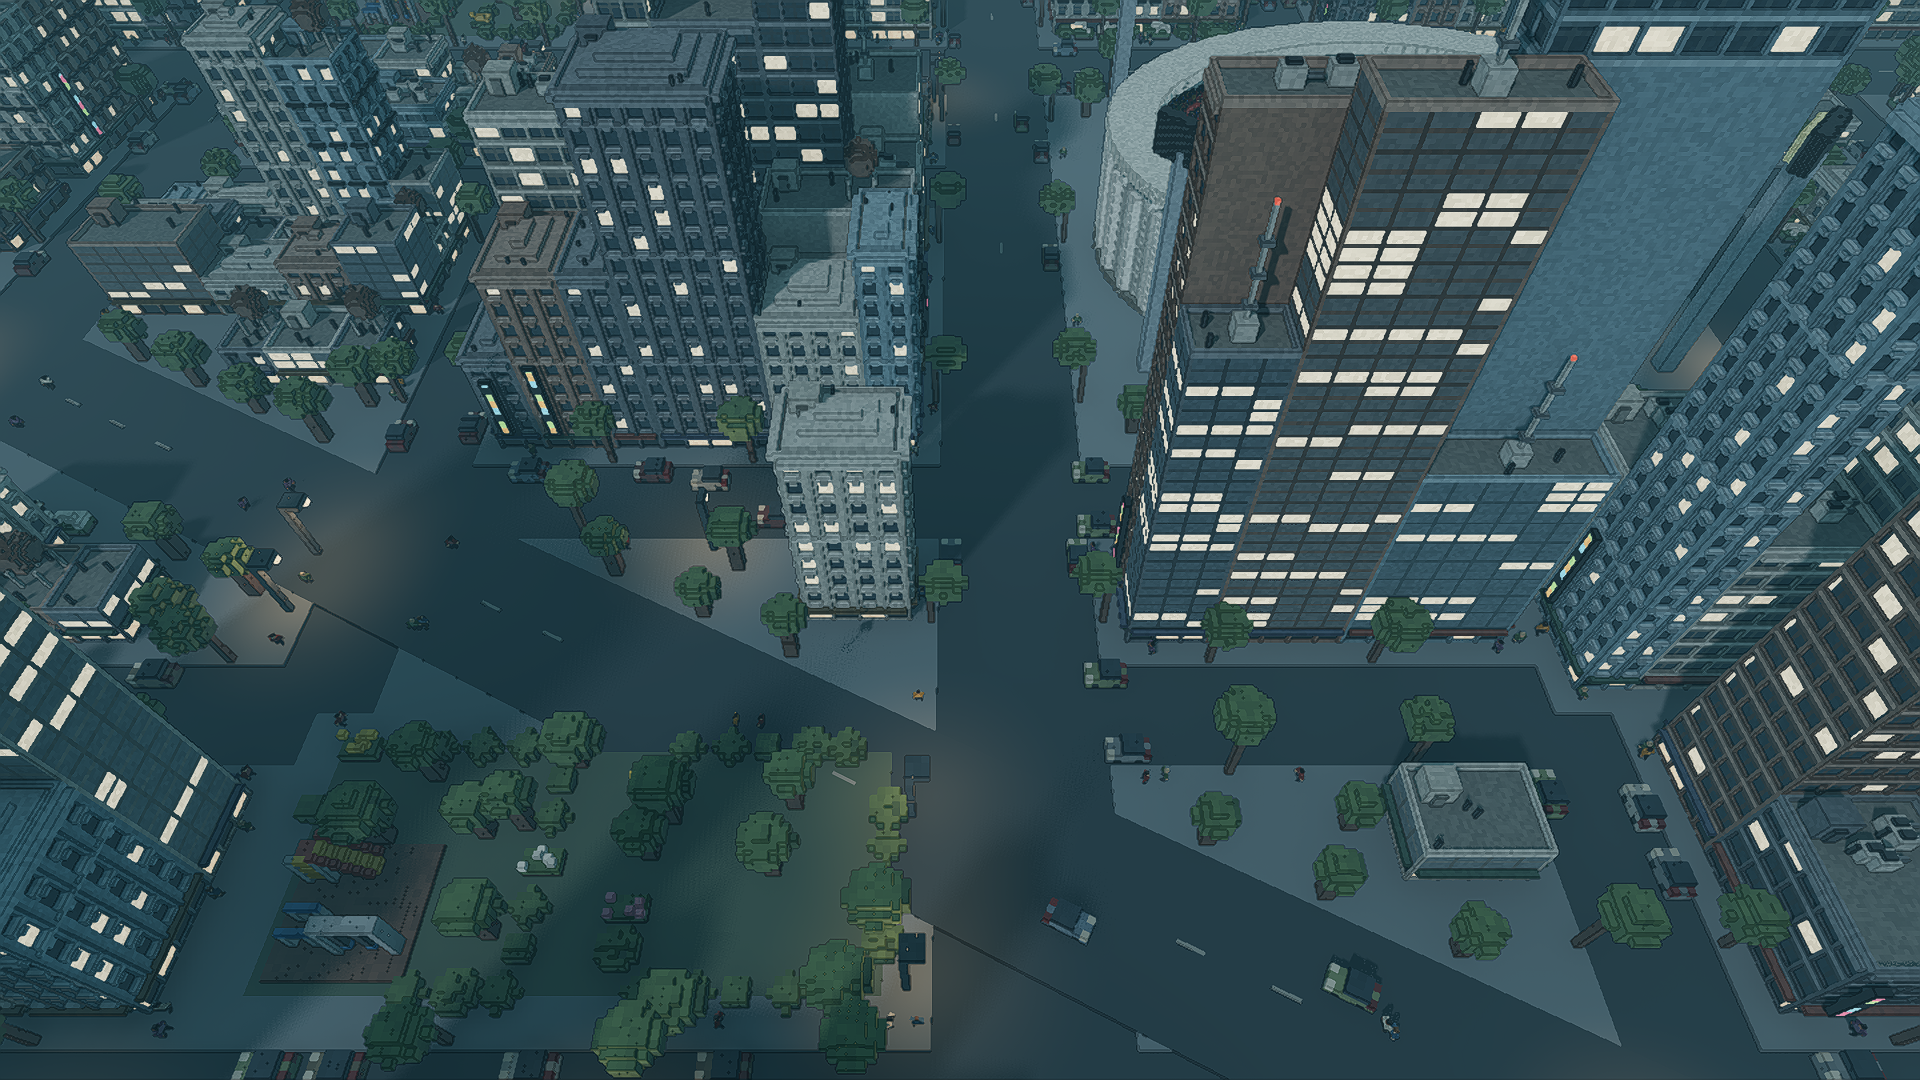
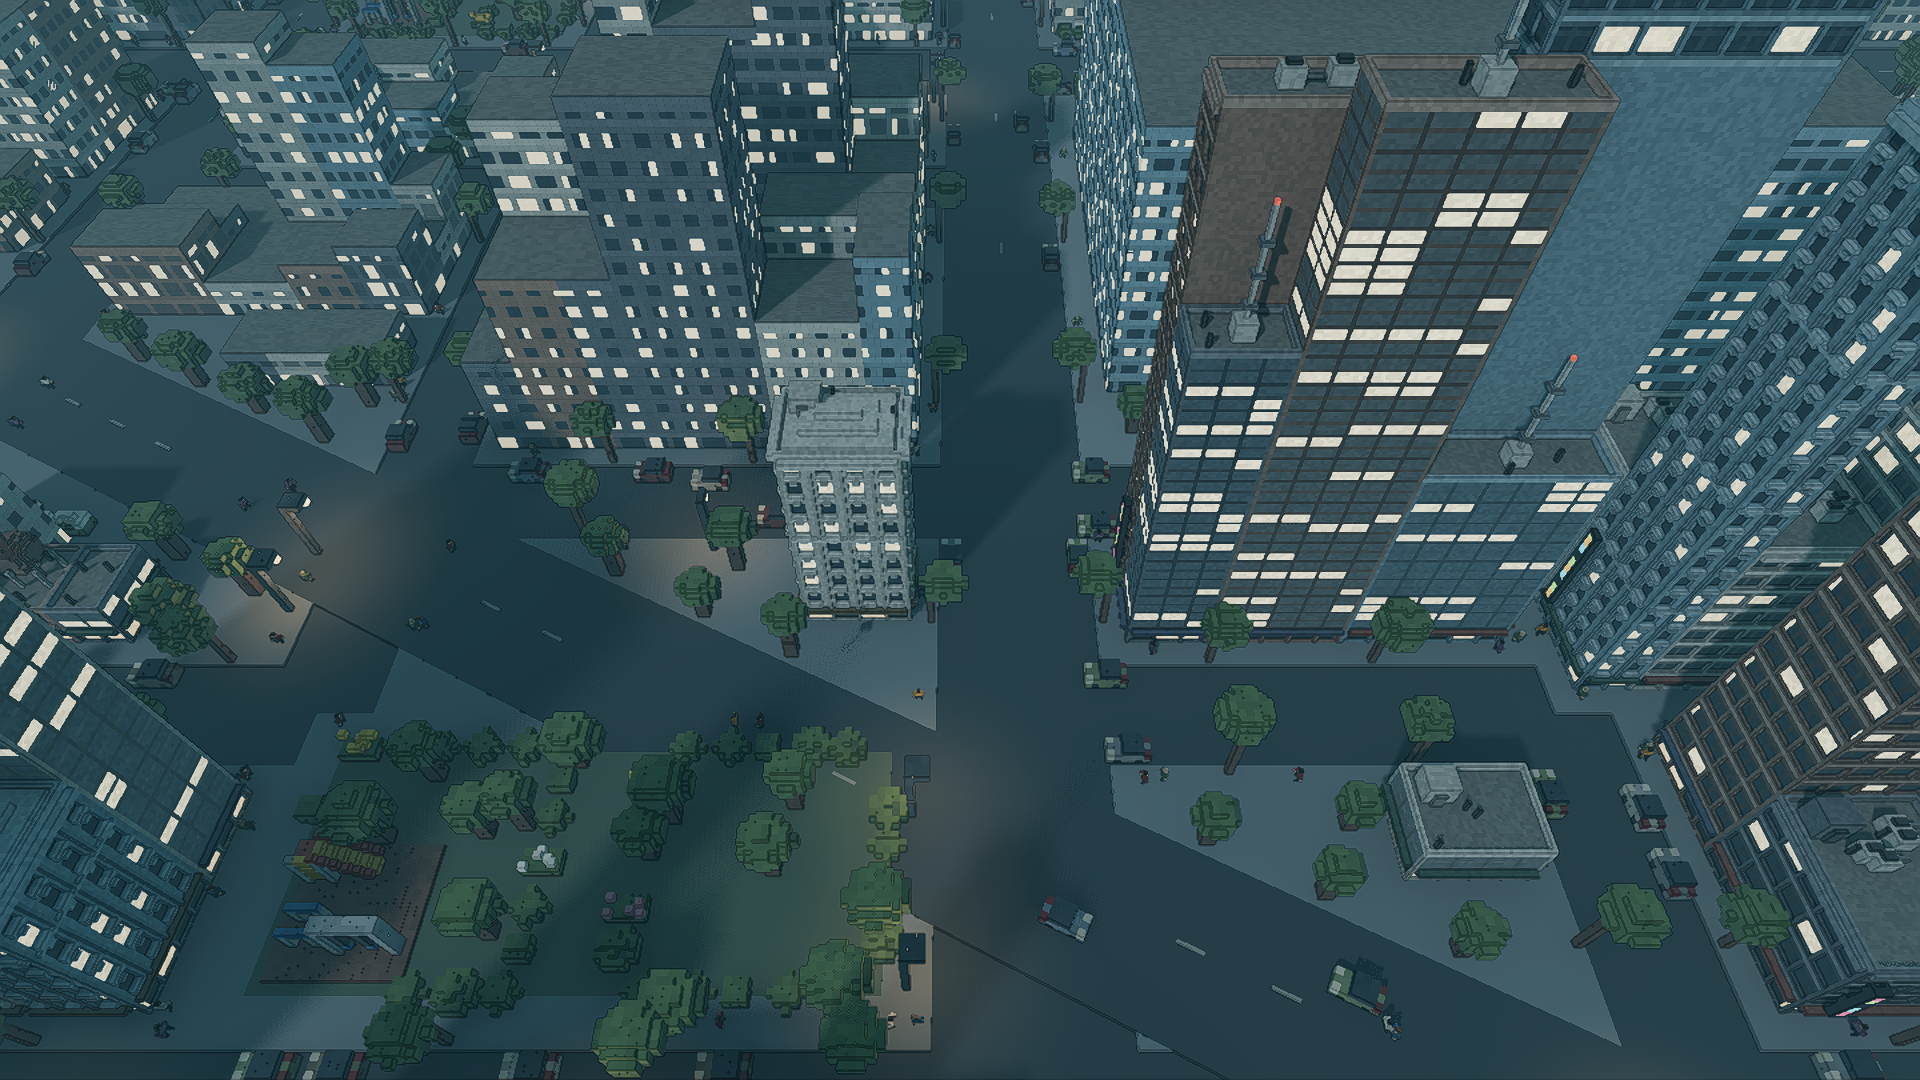
tools: carve view capture re-shot, one state a/b diff, 4x crops, bigger carves, lit close-up

diff --git a/agent-handoffs/carve-wp4.md b/agent-handoffs/carve-wp4.md
@@ -1,5 +1,5 @@
 # carve-wp4 handoff (builder, WP4 of real carving, D-094)
-## State: WP4 complete; CI run 39343371928 on a4fe572 pending; capture docs/captures/2026-10-20-carve-view; pr_body_wp4.md written (untracked)
+## State: WP4 complete; branch merged with look-options (WP1) and carve-wp3 (e193740); captures re-shot after critic FIX; lead opens the PR; pr_body_wp4.md untracked
 ## Task
 WP4: draw a carved building from its fine grid (WP3 BuildingCells), 16^3 regions, remesh only touched
 regions on WorkerThreadPool, native mesher (WP2 extension) with GDScript oracle. Not wired into rampage (WP7).
@@ -34,6 +34,6 @@ scratchpad build_native.bat (vcvars64 + python -m SCons platform=windows target=
 - Meshes now built on the main thread (worker-made mesh RIDs raced the dummy renderer:
   "Initializing already initialized RID"); workers return arrays.
 ## Left
-- CI run 39342476788 (dispatched before the bench/capture commit) result; re-dispatch after this commit.
-- Rerender capture after bite moved to the street face (panel 3 was invisible on the east face).
-- pr_body_wp4.md (untracked, worktree root; all template sections incl. Not exercised).
+- Lead opens the PR (after #98 merges); CI result at the final head goes in the report.
+- Critic FIX done: a/b one frozen state (diff 0 px), 4x crops, carves ~2x bigger, lit close-up d_closeup_lit, pockets = shaded glass cells.
+- Capture needs an untracked override.cfg (no_focus, off-screen) while windowed; delete after.
